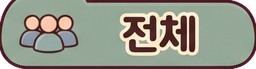
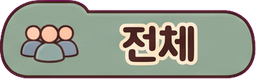
탭 그림 7-1 시트로 교체(모든 탭 평소 상태), 탭 위쪽 잘림 해결(자르기 도구가 탭의 튀어나온 귀를 지우던 문제·탭 줄 여백)
Claude-Session: https://claude.ai/code/session_01GYNkFzpWRp5V452kHf7km7

diff --git a/js/screens.js b/js/screens.js
@@ -20,9 +20,9 @@ var SCREENS={
 var TAB_FEAT={'events:assoc':'hire','events:vol':'vol','roster:hire':'hire','officers:off':'vol','officers:B':'vol','officers:C':'vol','people:vol':'vol'};
 function tabFeat(scr,tab){return TAB_FEAT[scr+':'+tab]||'';}
 function tabLocked(scr,tab){var f=tabFeat(scr,tab);return !!f&&!featOk(f);}
-/* Gemini 그림(assets/ui, tools/ui_buttons.py): 탭 이름 → 그림 이름. 담임목사는 '선택됨' 그림뿐이라 선택됐을 때만, 재정은 '잠김' 그림뿐이라 글자 탭으로 둔다 */
-var TAB_IMG={'행사':'event','담임목사':'pastor_on','부교역자':'assoc','봉사자':'vol','전체':'all','지표':'ind','퀘스트':'quest','직분자':'off','리더':'lead','섬김이':'serv','청빙직원':'hirestaff','직원':'staff','청빙':'hire','인력':'pool'};
-function tabImg(label,on){var f=TAB_IMG[label];if(!f||(label==='담임목사'&&!on))return '';return ' tabi" style="--tbi:url(../assets/ui/tab_'+f+'.png)';}
+/* Gemini 그림(assets/ui, tools/ui_buttons.py): 탭 이름 → 그림 이름. 선택됨·잠김은 CSS 필터 */
+var TAB_IMG={'행사':'event','담임목사':'pastor','부교역자':'assoc','봉사자':'vol','전체':'all','지표':'ind','재정':'fin','퀘스트':'quest','직분자':'off','리더':'lead','섬김이':'serv','청빙직원':'hirestaff','직원':'staff','청빙':'hire','인력':'pool'};
+function tabImg(label,on){var f=TAB_IMG[label];if(!f)return '';return ' tabi" style="--tbi:url(../assets/ui/tab_'+f+'.png)';}
 /* 행사·사역팀 아이콘 그림(assets/ui/ev_*·tm_*.png). 목록에 없는 것은 이모지로 */
 var ICO_EV=' smallgroup bible creed training communion street bazaar service retreat revival easter vbs thanks christmas pbook pstudy pmemo ppray psem pconf pdeg abook astudy amemo asem adeg minedu minfel offvow offsem offret leadtea leadsch leadmt servtool servws servthx volpray volpic volfeast ',ICO_TM=' evang praise care newcomer edu prayer admin media mission ';
 function icoHtml(kind,id,emoji){var L=kind==='ev'?ICO_EV:ICO_TM;return L.indexOf(' '+id+' ')>=0?'<img class="icoi" alt="" src="assets/ui/'+kind+'_'+id+'.png">':emoji;}

diff --git a/css/cozy.css b/css/cozy.css
@@ -405,10 +405,10 @@ h1,h2,h3,.btn,.fab .fl,.stabs button,.subtabs button,.evn,.card .nm,.btile .nm,.
 #scrTabs button.tabi{font-size:0!important;color:transparent;width:104px;height:40px;padding:0;border:0;border-radius:0;box-shadow:none;background:var(--tbi) center/contain no-repeat;position:relative;transform:none}
 #scrTabs button.tabi i{display:none}
 #scrTabs button.tabi small{position:absolute;right:4px;bottom:1px;font-size:9px!important;color:#fff;background:#8a7a5c;padding:0 4px;border-radius:6px;line-height:13px}
-#scrTabs button.tabi.on{filter:sepia(.85) saturate(2.4) brightness(1.2) drop-shadow(0 0 4px #ffe28a);transform:translateY(-2px)}
-#scrTabs button[aria-selected="true"].tabi[style*="pastor_on"]{filter:drop-shadow(0 0 4px #ffe28a)}
+#scrTabs button.tabi.on{filter:sepia(.85) saturate(2.4) brightness(1.2) drop-shadow(0 0 4px #ffe28a);margin-bottom:2px}
 #scrTabs button.tabi.lock{filter:grayscale(1) brightness(.9)}
 .evi.ico{background:none!important;border:0;box-shadow:none;width:86%;height:86%}
 .evi.ico .icoi{width:100%;height:100%;object-fit:contain;display:block}
 .evc.lock .evi.ico{filter:grayscale(1) brightness(.85)}
 @media (max-height:480px){#scrTabs button.tabi{width:88px;height:34px}}
+#scrTabs{padding-top:7px;padding-bottom:5px;align-items:flex-end}

diff --git a/tools/ui_buttons.py b/tools/ui_buttons.py
@@ -19,7 +19,7 @@ SPEC = {
   4: (2, 3, ['alert', 'alert_glow', 'quest', 'level', 'care_sq_hot', 'care_sq'], 140),
   5: (1, 4, ['badge0', 'badge1', 'badge2', 'badge3'], 96),
   6: (2, 3, ['chip_money', 'chip_money_hi', 'chip_debt', 'chip_mem', 'chip_mem_hi', 'chip_mem3'], 96),
-  7: (5, 3, ['tab_event', 'tab_pastor_on', 'tab_assoc', 'tab_vol', 'tab_all', 'tab_ind', 'tab_quest', 'tab_fin_lock', 'tab_off', 'tab_lead', 'tab_serv', 'tab_hirestaff', 'tab_staff', 'tab_hire', 'tab_pool'], 256),
+  7: (5, 3, ['tab_event', 'tab_pastor', 'tab_assoc', 'tab_vol', 'tab_all', 'tab_ind', 'tab_quest', 'tab_fin', 'tab_off', 'tab_lead', 'tab_serv', 'tab_hirestaff', 'tab_staff', 'tab_hire', 'tab_pool'], 256),
   8: (3, 5, ['ev_' + k for k in 'smallgroup bible creed training communion street bazaar service retreat revival easter vbs thanks christmas'.split()] + [None], 128),
   9: (3, 5, ['ev_' + k for k in 'pbook pstudy pmemo ppray psem pconf pdeg abook astudy amemo asem adeg minedu minfel'.split()], 128),
   10: (3, 4, ['ev_' + k for k in 'offvow offsem offret leadtea leadsch leadmt servtool servws servthx volpray volpic volfeast'.split()], 128),
@@ -90,7 +90,7 @@ def main():
                 al = np.array(cell)[..., 3] > 128
                 cs, rs = al.sum(0), al.sum(1)
                 xs = np.where(cs > 0.3 * cs.max())[0]; ys = np.where(rs > 0.3 * rs.max())[0]
-                if len(xs) and len(ys):
+                if len(xs) and len(ys) and not nm.startswith('tab_'):
                     cell = cell.crop((xs[0], ys[0], xs[-1] + 1, ys[-1] + 1))
                 # 원형 아이콘인데 가로가 더 길면 이웃 테두리가 붙은 것: 높이만큼의 창을 불투명 화소가 가장 많은 자리에 둔다
                 if nm.split('_')[0] in ('ev', 'tm', 'hud') and cell.width > 1.04 * cell.height:

diff --git a/CLAUDE.md b/CLAUDE.md
@@ -37,7 +37,7 @@
 - 돈은 만원 단위로만 쓴다: `fmt(n)`은 "1,234만원"이고 1만(=1억)부터 천만 단위에서 반올림한 "1.5억", 작은 글씨는 `fmtS`("0000만", 1억 이상은 같음), 점수·개수는 `fmtN`. 화면 위 자금·성도 수는 `.pill` 아이콘 칩(#vMoney·#vMem·#vDebt)이다
 - 챙길 일(경고·진행 중 행사·낡은 건물)은 지도 위 붉은 "!" 단추(`#alert`)로 두고, 누르면 작은 카드(`#alertCard`, `js/effects.js`)에 목록과 '모두 수리'가 뜬다. 주간 수입·지출 그래프는 재정 탭(점 그래프)에 있다
 - 고민에 답하면 결과 창(`careResHtml`, `#scrDlg`)에 효과를 보여 준다. 행사 정보 창 아래에는 비용과 '실행' 단추. 사역팀 카드는 육각형 슬롯 6칸(`teamCardHtml`·`hexSlot`)
-- 메인 화면 버튼 그림은 Gemini로 만든 시트(`docs/art/sheets/ui-buttons1~5.jpeg`)를 `python3 tools/ui_buttons.py`로 잘라 `assets/ui/`에 둔다(마젠타 배경 → 투명). 아래 기능 버튼(`fab_*`·`_on` 눌림·`_lock` 잠김, `.fab .fc::before`)·돌리기·설정·게임 속도·소리·닫기(`hud_*`)·챙길 일(`alert`)·성도 화면의 심방·선물·고민(`visit`·`gift`·`care`, 글자가 그림에 들어 있음)은 `css/cozy.css` 맨 아래에서 배경 그림으로 입힌다(HTML의 글자·svg는 접근성용으로 남기고 숨김). 탭(`tab_*`, 글자 포함 — `TAB_IMG`·`tabImg`, 선택은 CSS 필터, 담임목사는 선택됨 그림뿐이라 선택될 때만·재정은 글자 탭)·행사 40개(`ev_<id>`)·사역팀 9개(`tm_<k>`, `icoHtml`)·왼쪽 아래 칩(`chip_money`·`chip_mem`)도 같은 도구(`SPEC` 6~11번 시트)로 만든다. 새 버튼 그림을 바꾸면 시트를 갈아 끼우고 도구를 다시 돌릴 것
+- 메인 화면 버튼 그림은 Gemini로 만든 시트(`docs/art/sheets/ui-buttons1~5.jpeg`)를 `python3 tools/ui_buttons.py`로 잘라 `assets/ui/`에 둔다(마젠타 배경 → 투명). 아래 기능 버튼(`fab_*`·`_on` 눌림·`_lock` 잠김, `.fab .fc::before`)·돌리기·설정·게임 속도·소리·닫기(`hud_*`)·챙길 일(`alert`)·성도 화면의 심방·선물·고민(`visit`·`gift`·`care`, 글자가 그림에 들어 있음)은 `css/cozy.css` 맨 아래에서 배경 그림으로 입힌다(HTML의 글자·svg는 접근성용으로 남기고 숨김). 탭(`tab_*`, 글자 포함 — `TAB_IMG`·`tabImg`, 선택·잠김은 CSS 필터)·행사 40개(`ev_<id>`)·사역팀 9개(`tm_<k>`, `icoHtml`)·왼쪽 아래 칩(`chip_money`·`chip_mem`)도 같은 도구(`SPEC` 6~11번 시트)로 만든다. 새 버튼 그림을 바꾸면 시트를 갈아 끼우고 도구를 다시 돌릴 것
 - 성도·직분자 화면 위 줄: 심방·선물 아이콘(할 수 있으면 색이 켜지고 누르면 바로 적용)과 '전체 ○○' 일괄 성장 단추(`ppTrainAll`·`ppAppointAll`). 일괄 처리는 모두 호감 레벨이 낮은 사람부터, 자금이 되는 만큼(`byLow`)
 - 레벨이 없는 요소(`nolv`, buildings.js `NOLV`: 벤치 6종·화장실·그릴·피크닉 등 건물이 아닌 것)는 투자·레벨 아이콘이 없고 회전만 `NOLV_ROT`배로 빠르다(`hasLv`·`rotTime`). 벤치 종류는 `bench`·`bench_stone`·`bench_iron`·`bench_back`·`bench_round`·`bench_flower`(그림은 `drawBench`, 모두 `SIT_DEFS`에 들어 앉을 수 있다)
 - 방문자는 예배를 보러 온다(`visitors.js`, 수치는 `VIS_WORD*`·`SPIRIT_*`·`NEED_W_WORD`): 말씀 욕구가 가장 낮게 시작해 예배 건물부터 찾고, 오는 사람 수와 정착은 영성 점수(`S.cov.spirit`)를 따른다. 불편에는 설교(`sermon`: 말씀 효과 × 맡은 사람 성능 `sermonQ`)·영성(`spirit`)·예배 못 드림(`word`)이 맨 앞에 있다(gripes.js)
